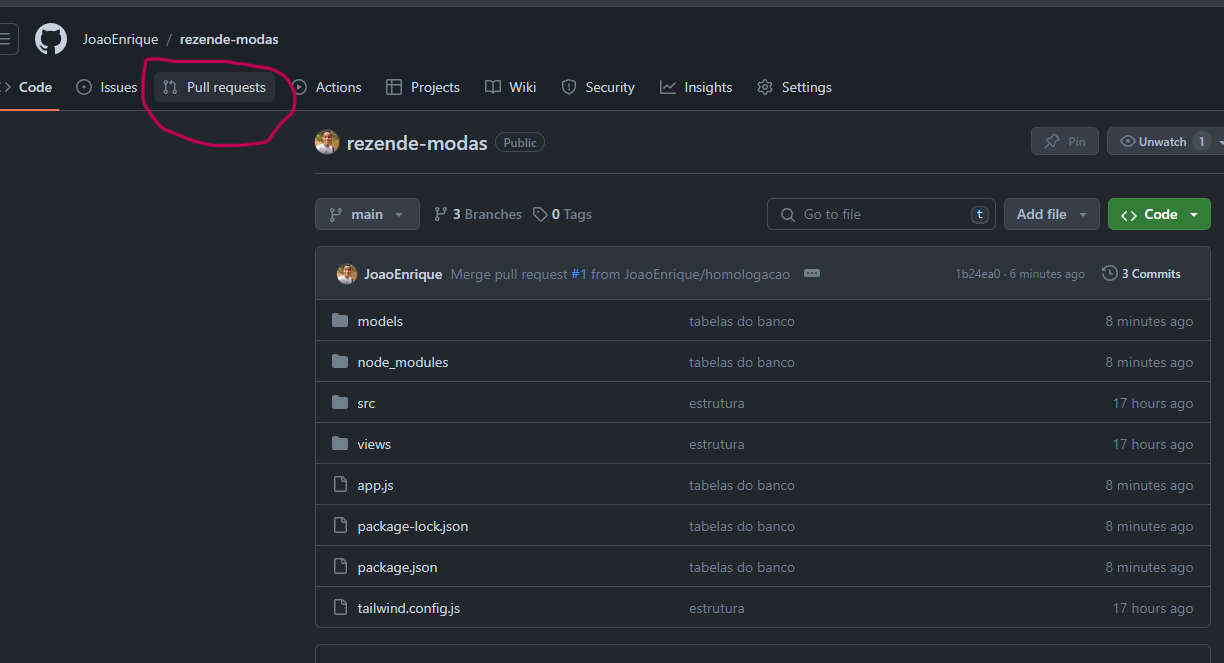
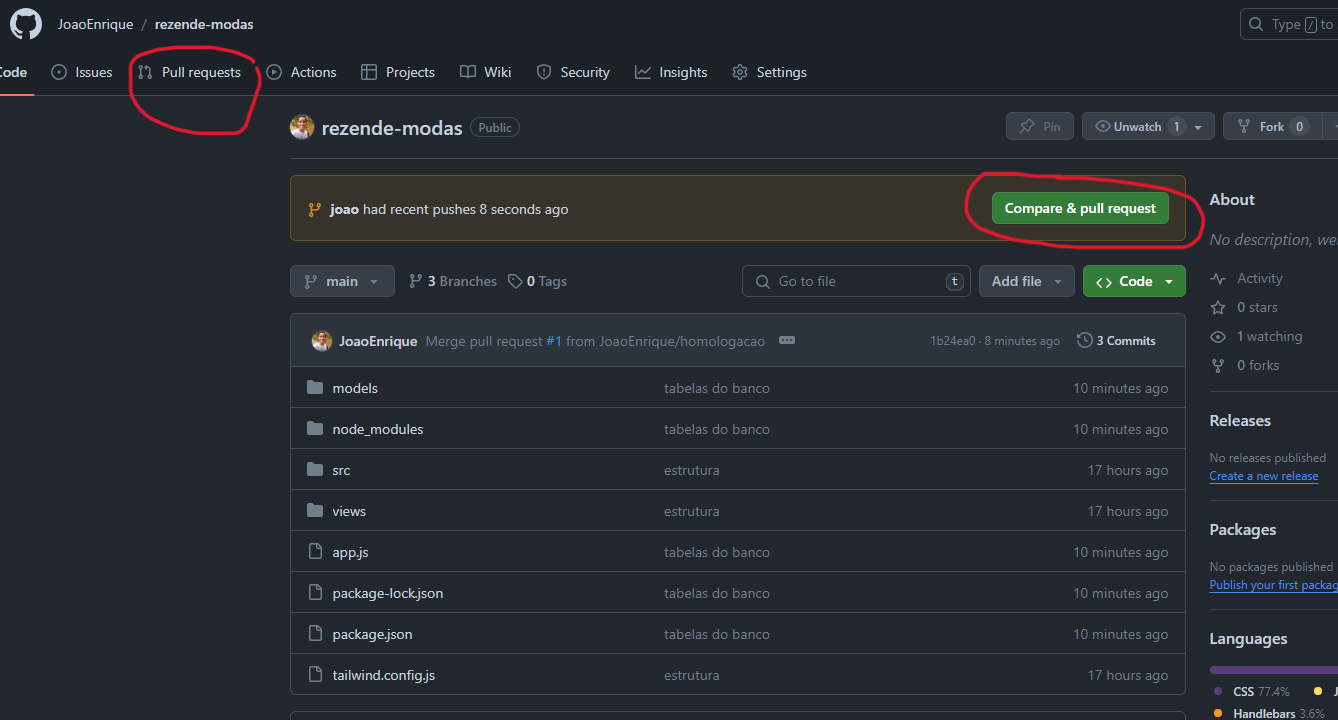
como fazer pull request

diff --git a/README.md b/README.md
@@ -25,6 +25,22 @@ git commit -m "commit"
 git push origin seu-nome
 ```
 
-Se tiver finalizado uma funcionalidade inteira, tranfira as alteracoes para a branch de homologação com pull request
+Se tiver finalizado uma funcionalidade inteira, tranfira as alteracoes para a branch de homologação com pull request.
 
+Clique em "pull request" no menu ou em Compare & pull request
 ![alt text](image.png)
+
+Clique em New "pull request" ou em "Compara & pull reques"
+![alt text](image-1.png)
+
+Selecione primeiro a branch "homologação" e depois a com o seu nome
+![alt text](image-2.png)
+
+Clique no botao "create pull request"
+![alt text](image-3.png)
+
+Clique no botao "merge pull request"
+![alt text](image-4.png)
+
+Pronto! Agora você fez um pull request e suas alterações foram enviadas para a homologação
+![alt text](image-5.png)
